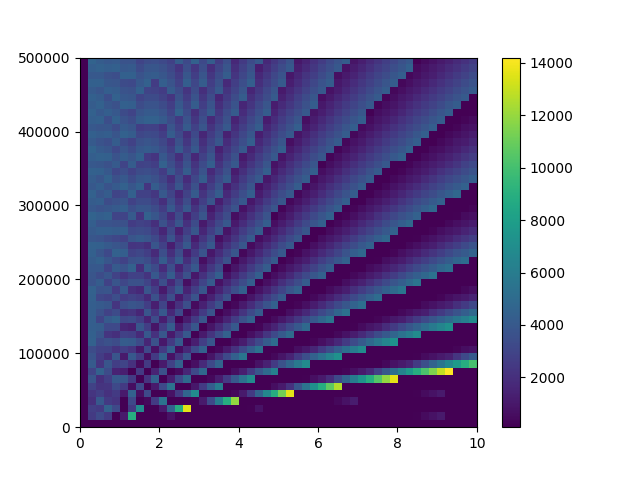
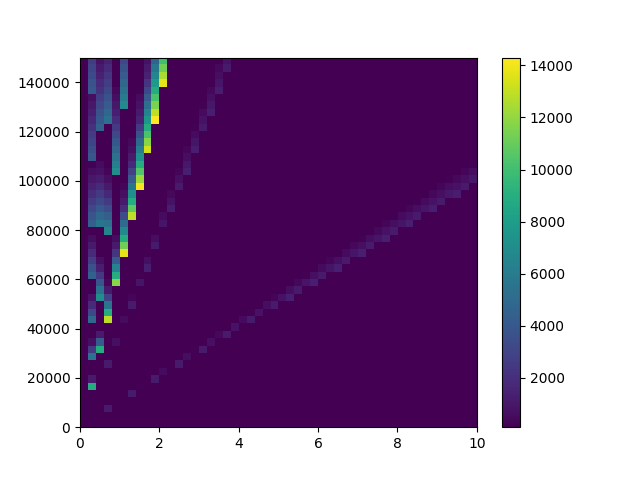
phase diagram with new implementation

diff --git a/phase_diagram.py b/phase_diagram.py
@@ -68,7 +68,7 @@ def get_main_frequency(signal, sample_rate):
 #code pour génération des données
 #=================================================
 
-taille_grilles = 100
+taille_grilles = 50
 phase_array = []
 
 grille_f_amplitude = np.linspace(0 , 10 , taille_grilles)
